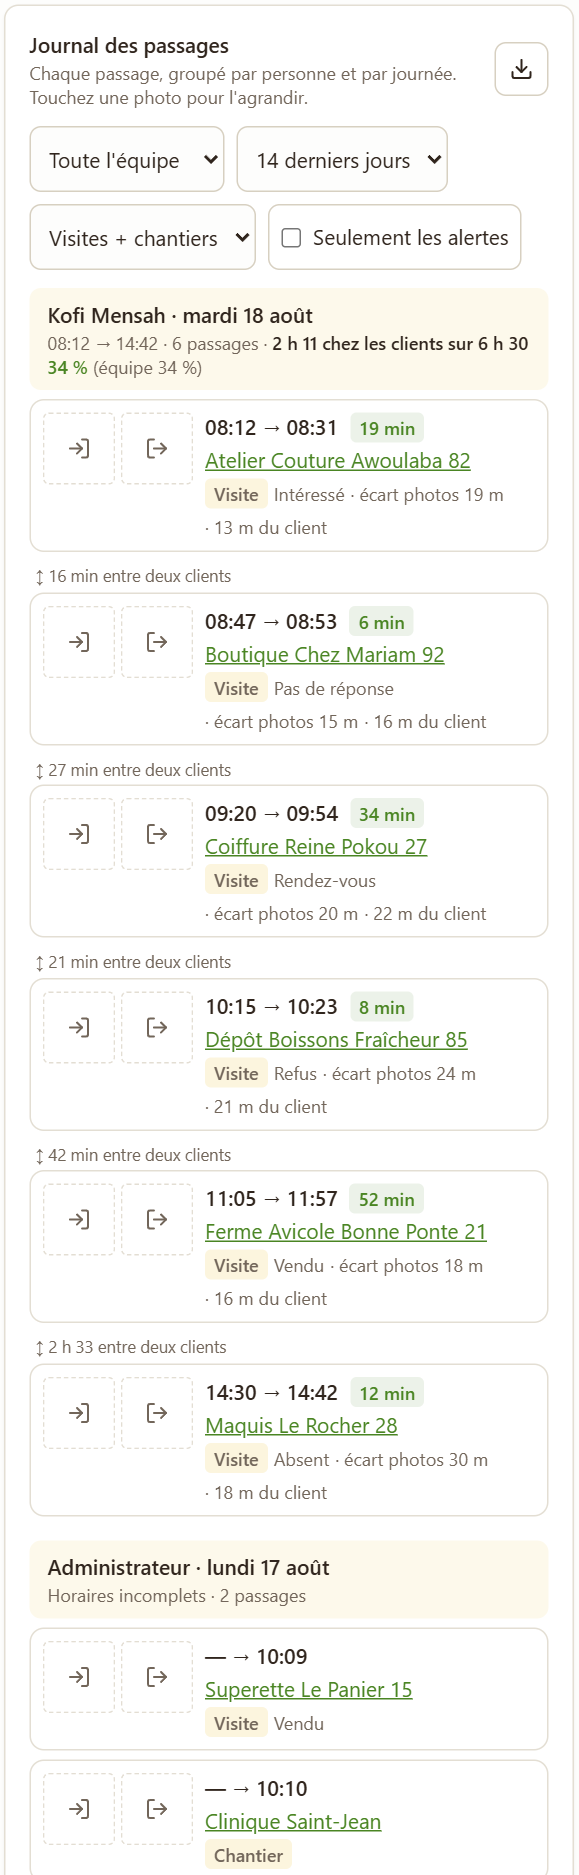
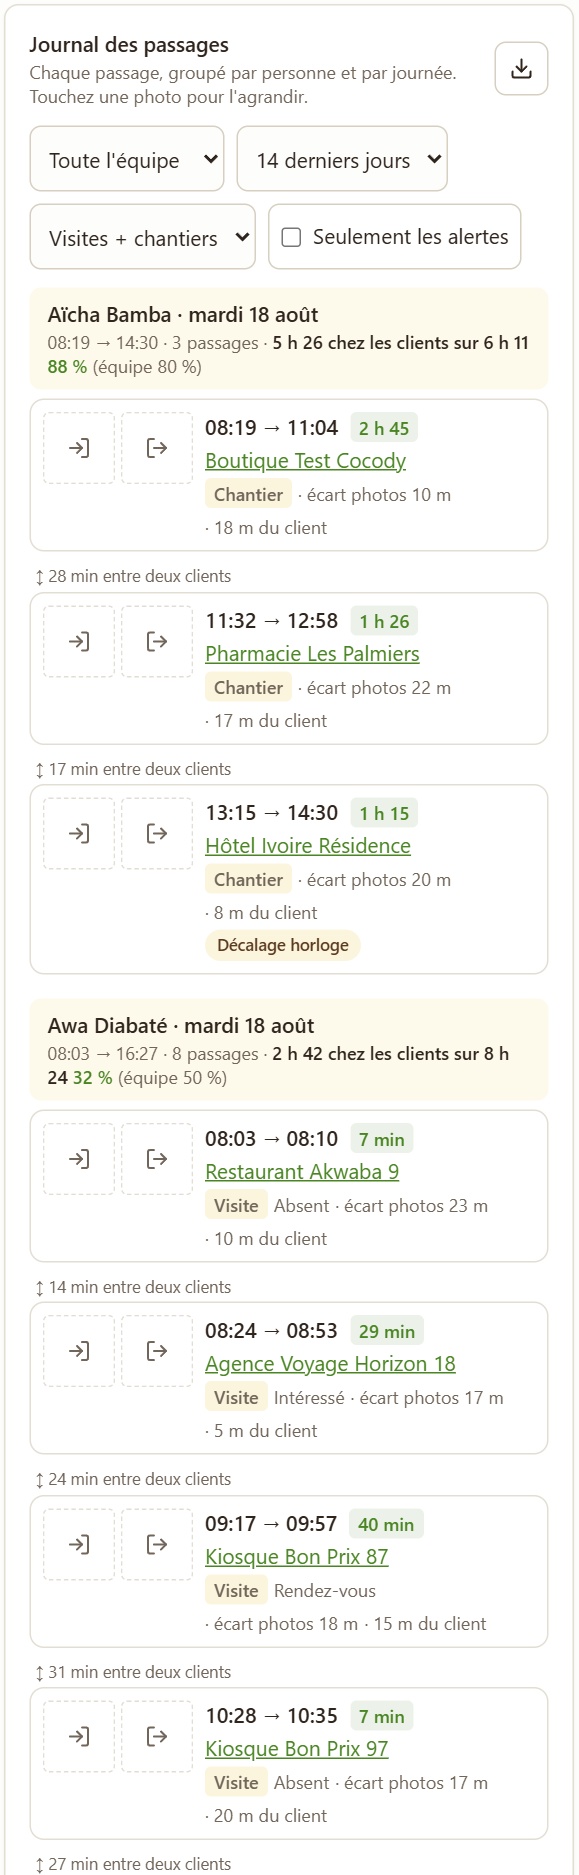
Manual: populated Check-In screenshots, note the per-role comparison

diff --git a/public/manuel.html b/public/manuel.html
@@ -695,7 +695,7 @@
     <h4>L'en-tête de journée</h4>
     <p>Une ligne résume la forme de la journée :</p>
     <p class="path">Kofi Mensah · mardi 18 août — 08:12 → 14:42 · 6 passages · <strong>2 h 11 chez les clients sur 6 h 30 · 34 %</strong> (équipe 34 %)</p>
-    <p>Ce pourcentage — le <strong>temps client</strong> — est le chiffre à suivre : il distingue « faire de longues journées » de « passer du temps avec les clients », et se compare à la moyenne de l'équipe affichée juste à côté.</p>
+    <p>Ce pourcentage — le <strong>temps client</strong> — est le chiffre à suivre : il distingue « faire de longues journées » de « passer du temps avec les clients ». Il se compare à la moyenne de l'équipe affichée juste à côté, calculée <strong>séparément pour les commerciaux et pour les techniciens</strong> : un technicien passe plusieurs heures sur un seul chantier, sa moyenne n'a rien à voir avec celle d'un porte-à-porte.</p>
 
     <h4>Chaque ligne</h4>
     <ul>
